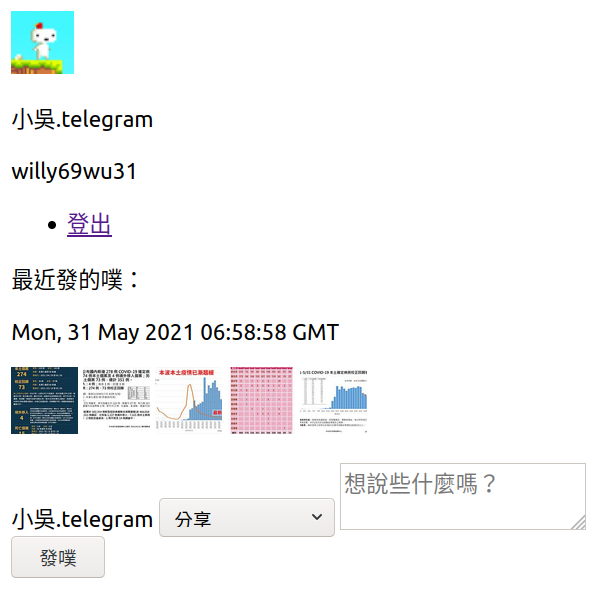
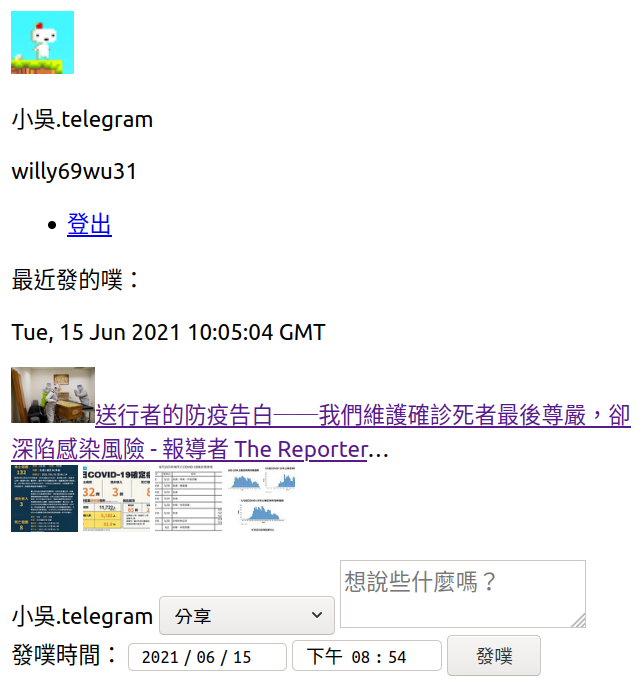
Mention scheduled plurk in README

diff --git a/README.md b/README.md
@@ -4,7 +4,11 @@
 
 利用噗浪 API 製作的發噗工具。
 
-以 PHP + Laravel 製作，目前只有基本發噗功能，以及可以觀看最新一則自己的噗。
+以 PHP + Laravel 製作，目前功能如下：
+
+* 發噗
+* 預約發噗
+* 觀看最新一則自己的噗
 
 ## 螢幕擷圖
 
@@ -41,3 +45,10 @@ sail artisan migrate
 ```
 
 等 Docker 容器啟動後再瀏覽 <http://localhost/>。
+
+若要正常執行預約發噗，請執行 `sail artisan schedule:work` 。
+
+## 已知問題
+
+Q：不能用 `crontab` 來定時執行預約發噗功能嗎？  
+A：用 `crontab` 來定時執行會出現 `the input device is not a TTY` ，目前找不到簡易的解決辦法。
